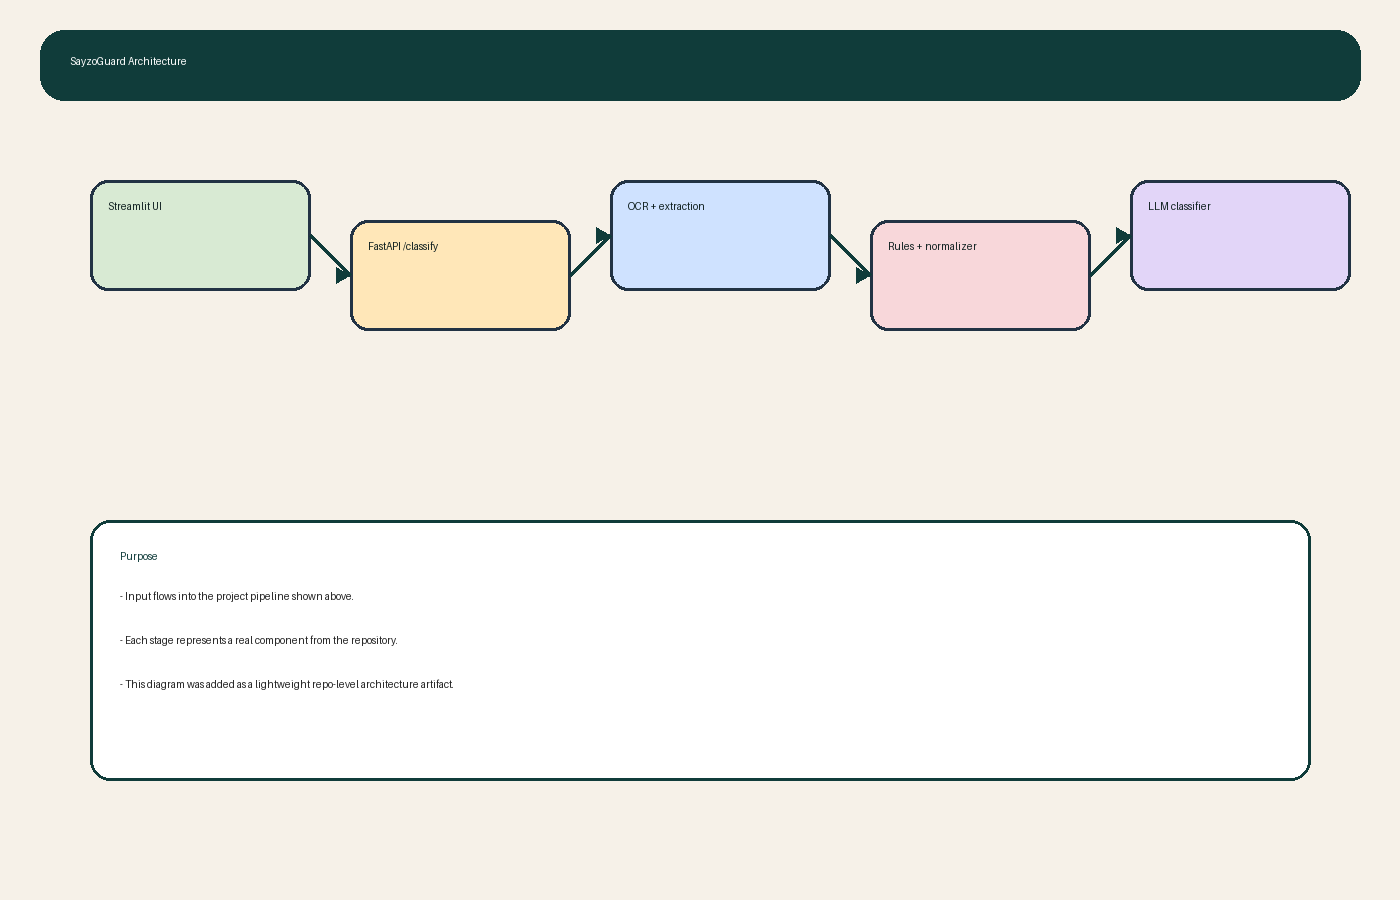
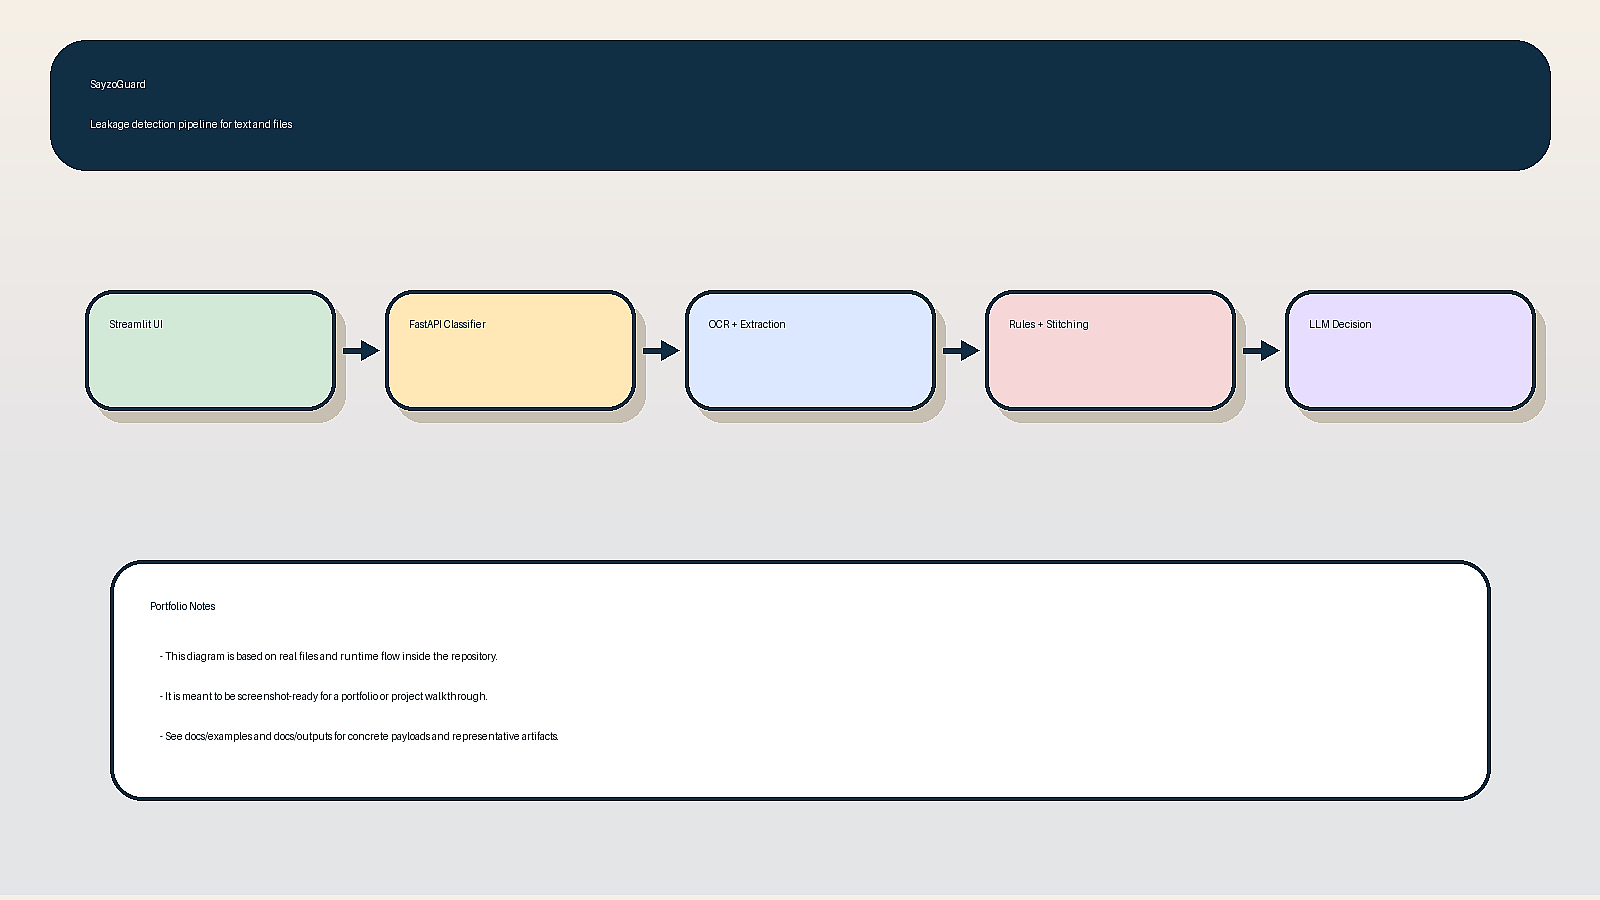
Polish architecture docs and add rich examples

Changed region(s): [[0.0307, 0.0311, 0.9829, 0.4978], [0.0614, 0.56, 0.9521, 0.9022]]

diff --git a/docs/sample_io.md b/docs/sample_io.md
@@ -1,28 +1,15 @@
 # Sample Inputs and Outputs
 
-## Sample text input
-```json
-{
-  "text": "Join me on https://meet.google.com/abc-defg-hij",
-  "task_id": "task-101",
-  "session_id": "session-55"
-}
-```
+## Example files
+- `examples/classify_request.json`
+- `examples/classify_blocked_response.json`
+- `examples/classify_scored_response.json`
+- `examples/sample_ocr_text.txt`
+- `outputs/pipeline_trace.log`
 
-## Sample file flow
-- Upload a PDF, image, or text file in the Streamlit UI
-- Extract text with `extract_text_from_file`
-- Send the extracted text to `/classify`
-
-## Sample output after normalization and rule scoring
-```json
-{
-  "blocked": true,
-  "rule_score": 3,
-  "llm_result": {
-    "leakage": true,
-    "confidence": 0.88,
-    "reason": "Restricted link present"
-  }
-}
-```
+## What these show
+- a direct API request body
+- a blocked escrow-gate response
+- a rule-plus-LLM classification response
+- OCR-extracted text that can be fed into the classifier
+- a representative pipeline trace for moderation demos

diff --git a/README.md b/README.md
@@ -94,3 +94,5 @@ flowchart LR
 - [Architecture diagram](docs/architecture.png)
 - [Evaluation logs and outputs](docs/evaluation.md)
 - [Sample inputs and outputs](docs/sample_io.md)
+- [Rich example assets](docs/examples/)
+- [Representative outputs](docs/outputs/)
